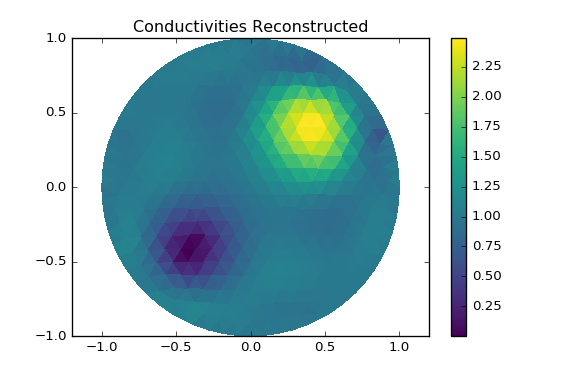
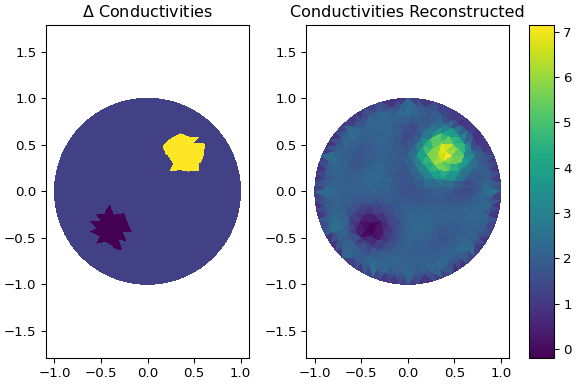
Improved plotting and updated example for static jac

diff --git a/examples/eit_static_jac.py b/examples/eit_static_jac.py
@@ -31,14 +31,15 @@ tri = mesh_obj["element"]
 perm = mesh_new["perm"]
 
 # show
-fig, ax = plt.subplots(figsize=(6, 4))
+fig, axes = plt.subplots(1,2, constrained_layout=True)
+fig.set_size_inches(6, 4)
+
+ax = axes[0]
 im = ax.tripcolor(
     pts[:, 0], pts[:, 1], tri, np.real(perm), shading="flat", cmap=plt.cm.viridis
 )
-fig.colorbar(im)
 ax.axis("equal")
 ax.set_title(r"$\Delta$ Conductivities")
-plt.show()
 
 """ 2. calculate simulated data """
 el_dist, step = 1, 1
@@ -54,7 +55,7 @@ eit.setup(p=0.25, lamb=1.0, method="lm")
 ds = eit.gn(f1.v, lamb_decay=0.1, lamb_min=1e-5, maxiter=20, verbose=True)
 
 # plot
-fig, ax = plt.subplots(figsize=(6, 4))
+ax = axes[1]
 im = ax.tripcolor(
     pts[:, 0],
     pts[:, 1],
@@ -64,8 +65,9 @@ im = ax.tripcolor(
     alpha=1.0,
     cmap=plt.cm.viridis,
 )
-fig.colorbar(im)
 ax.axis("equal")
 ax.set_title("Conductivities Reconstructed")
-# fig.savefig('../figs/demo_static.png', dpi=96)
+
+fig.colorbar(im, ax=axes.ravel().tolist())
+#fig.savefig('../doc/images/demo_static.png', dpi=96)
 plt.show()
